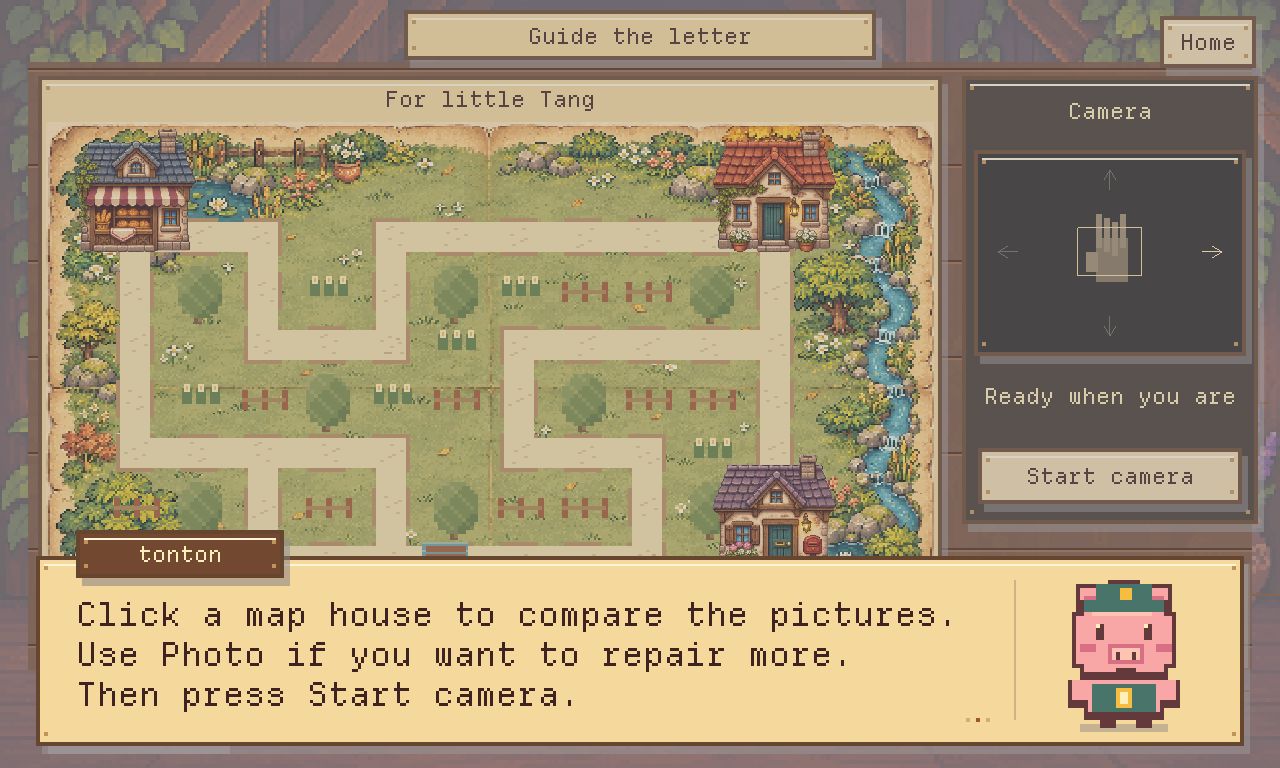
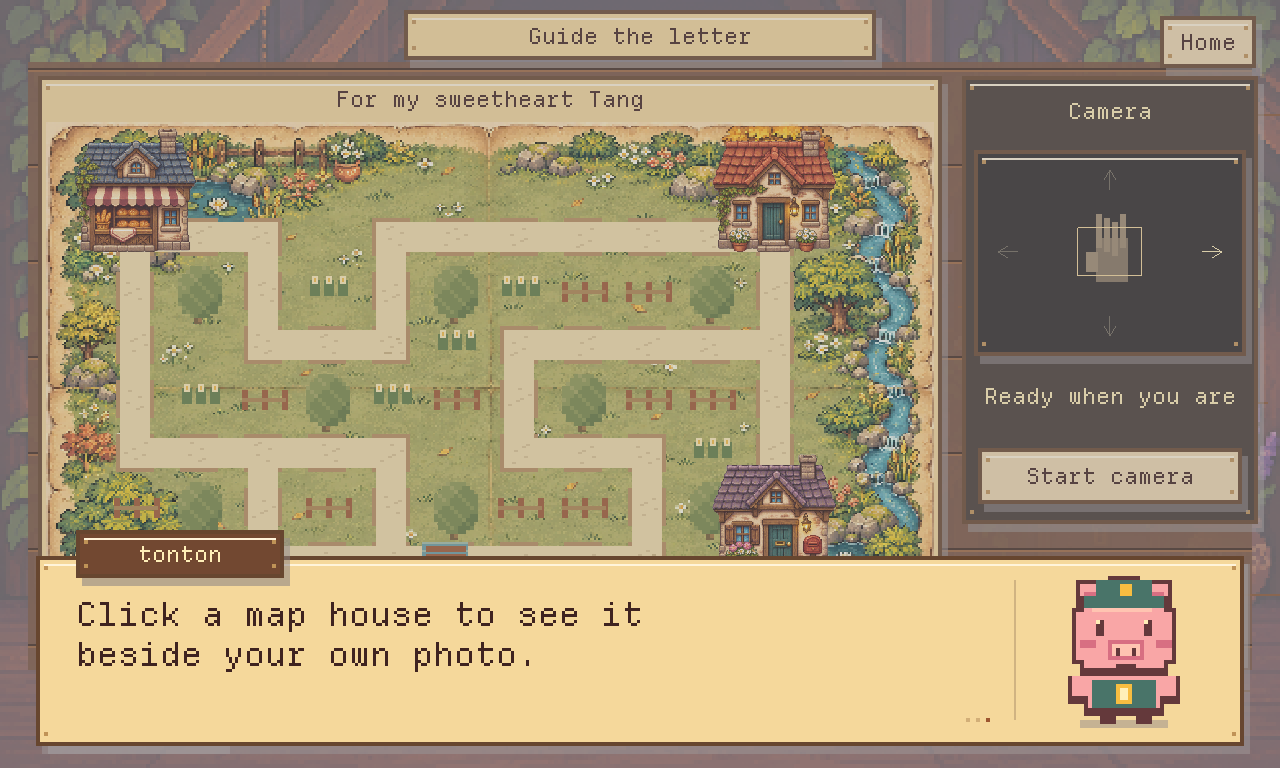
Guide one action at a time with highlighted tools

diff --git a/src/ofApp.cpp b/src/ofApp.cpp
@@ -126,6 +126,7 @@ void ofApp::enterSpeech(){
     }
 }
 void ofApp::nextSpeech(){
+    if(dialogue[speechIndex].focus!=story::Focus::None&&ofGetElapsedTimef()-dialogueAt<.35f)return;
     if(dialogue[speechIndex].cue==story::Cue::Doorbell&&ofGetElapsedTimef()-dialogueAt<.75f)return;
     if(++speechIndex>=dialogue.size()){
         screen=afterDialogue;intro=false;palm.reset();lastPalmStamp=0;
@@ -198,7 +199,7 @@ void ofApp::update(){
     for(int i=0;i<3;++i)if(inkDue[i]>0&&now>=inkDue[i]&&drawingCell!=i){guesses[i]=reader.guess(writing[i]);recognized[i]=guesses[i].digit;inkDue[i]=0;}
     if(screen==Screen::Play&&chapter==2&&moveDuration<=0&&inspectedHouse<0&&cameraTipPending){
         cameraTaught=true;cameraTipPending=false;
-        say({{"tonton","Start in the middle, then hold one side.\nWait for the ring. Come back to middle.\nThe letter stops at forks and corners."}});
+        say(story::cameraGuide());
     }
     if(qaMode)runQA();
 }
@@ -373,7 +374,7 @@ void ofApp::drawMap(bool caption){
     for(int y=1;y<8;++y)for(int x=1;x<12;++x)if(maze.road({x,y})){
         auto p=mapPoint({x,y});for(int i=0;i<5;++i){int dx=(x*7+y*3+i*5)%11-5,dy=(x*3+y*7+i*3)%11-5;rect(p.x+dx,p.y+dy,2,1,ofColor(218,195,145));}
     }
-    if(caption)textInBox("For little Tang",{23,41,444,19},ink);
+    if(caption)textInBox(story::dedication,{23,41,444,19},ink);
     for(size_t i=1;i<trail.size();++i){auto a=mapPoint(trail[i-1]),b=mapPoint(trail[i]);if(cv::norm(trail[i]-trail[i-1])==1)line(a.x,a.y,b.x,b.y,ofColor(170,98,72));}
     // A bridge and a tiny pond are scenery; road topology remains explicit.
     rect(211,271,23,17,ofColor(103,158,163));for(int y=271;y<288;y+=4)rect(211,y,23,1,ofColor(161,190,167));
@@ -429,25 +430,55 @@ void ofApp::drawSealedEnvelope(){
     if(screen==Screen::Envelope)button("Open envelope",openEnvelopeButton,true);
 }
 
+ofRectangle ofApp::dialogueBox()const{
+    auto focus=dialogue[speechIndex].focus;
+    return {18,focus!=story::Focus::None&&focus!=story::Focus::Ready?48.f:278.f,604,95};
+}
+ofRectangle ofApp::focusArea()const{
+    switch(dialogue[speechIndex].focus){
+        case story::Focus::Clean:return filterButton(0);
+        case story::Focus::Contrast:return filterButton(1);
+        case story::Focus::Detail:return filterButton(2);
+        case story::Focus::Size:return {278,311,166,28};
+        case story::Focus::Strength:return {278,343,166,31};
+        case story::Focus::Original:return beforeButton;
+        default:return {};
+    }
+}
 void ofApp::drawDialogue(){
-    if(intro)drawIntro();
+    const auto& speech=dialogue[speechIndex];
+    if(speech.focus!=story::Focus::None)drawPlay();
+    else if(intro)drawIntro();
     else if(outro)drawOutro();
     else if(chapter==2&&!delivered&&!envelopeOpened)drawSealedEnvelope();
     else drawPlay();
-    rect(0,0,W,H,ofColor(28,21,27,50));
-    const auto& speech=dialogue[speechIndex];
-    paperFrame(18,278,604,95,paper);
-    if(!speech.narration){paperFrame(38,265,104,24,ofColor(114,72,49));textInBox(speech.speaker,{38,265,104,24},light);}
-    rasterText(speech.words,38,313,ink,true);
-    if(!speech.narration&&speech.speaker!="You")rect(507,290,1,70,ofColor(208,179,130));
+    auto target=focusArea();auto shade=ofColor(28,21,27,90);
+    if(target.width>0){
+        target.x-=4;target.y-=4;target.width+=8;target.height+=8;
+        rect(0,0,W,target.y,shade);rect(0,target.y,target.x,target.height,shade);
+        rect(target.getRight(),target.y,W-target.getRight(),target.height,shade);
+        rect(0,target.getBottom(),W,H-target.getBottom(),shade);
+        // Crisp pixel brackets leave the highlighted control unobscured.
+        auto glow=ofColor(255,221,137,210+int(35*std::sin(ofGetElapsedTimef()*4)));
+        for(int side:{0,1})for(int edge:{0,1}){
+            int x=side?target.getRight()-7:target.x,y=edge?target.getBottom()-2:target.y;
+            rect(x,y,7,2,glow);rect(side?target.getRight()-2:target.x,edge?target.getBottom()-7:target.y,2,7,glow);
+        }
+    }else rect(0,0,W,H,ofColor(28,21,27,50));
+    auto box=dialogueBox();int y=box.y;
+    paperFrame(box.x,y,box.width,box.height,paper);
+    if(!speech.narration){paperFrame(38,y-13,104,24,ofColor(114,72,49));textInBox(speech.speaker,{38,float(y-13),104,24},light);}
+    float age=ofGetElapsedTimef()-dialogueAt;
+    if(speech.focus==story::Focus::None||age>=.3f)rasterText(speech.words,38,y+35,ink,true);
+    if(!speech.narration&&speech.speaker!="You")rect(507,y+12,1,70,ofColor(208,179,130));
     if(speech.speaker=="tonton"){
-        float age=ofGetElapsedTimef()-dialogueAt;int shake=age<.35&&speech.happy?int(std::sin(age*65)*2):0;
-        pixel::tonton(562+shake,330,2,ofGetElapsedTimef(),speech.happy);
+        int shake=age<.35&&speech.happy?int(std::sin(age*65)*2):0;
+        pixel::tonton(562+shake,y+52,2,ofGetElapsedTimef(),speech.happy);
     }else if(speech.speaker=="Lia"){
         int pose=ofClamp(speech.happy,0,2);float cell=lia.getWidth()/3;
-        ofSetColor(255);lia.getTexture().drawSubsection(520,282,88,88,cell*pose,0,cell,lia.getHeight());
+        ofSetColor(255);lia.getTexture().drawSubsection(520,y+4,88,88,cell*pose,0,cell,lia.getHeight());
     }
-    int dot=int(ofGetElapsedTimef()*2)%3;for(int i=0;i<3;++i)rect(483+i*5,359,2,2,i==dot?wood:ofColor(210,175,120));
+    int dot=int(ofGetElapsedTimef()*2)%3;for(int i=0;i<3;++i)rect(483+i*5,y+81,2,2,i==dot?wood:ofColor(210,175,120));
 }
 
 void ofApp::drawLetter(){
@@ -456,7 +487,7 @@ void ofApp::drawLetter(){
     ofPushMatrix();ofTranslate(320,0);ofScale(flip,1);ofTranslate(-320,0);
     drawProp(paperArt,letterArea);
     if(!letterOpened||age<.3f){
-        textInBox("For little Tang",{176,58,288,25},ink);
+        textInBox(story::dedication,{176,58,288,25},ink);
         ofPushMatrix();ofTranslate(136,56);ofScale(.75f,.75f);drawMap(false);ofPopMatrix();
         int lift=2+int((1+std::sin(ofGetElapsedTimef()*3))*2);
         float fit=std::min(letterArea.width/paperArt.getWidth(),letterArea.height/paperArt.getHeight());
@@ -509,7 +540,7 @@ void ofApp::drawMagnifier(glm::vec2 p){
 void ofApp::draw(){
     auto v=mirror::pixelViewport(ofGetWidth(),ofGetHeight());renderCanvas(v.scale);
     ofBackground(shadow);ofSetColor(255);canvas.draw(v.x,v.y);
-    auto p=logical(ofGetMouseX(),ofGetMouseY());bool magnifier=(screen==Screen::Home&&ofRectangle(0,0,W,H).inside(p))||(screen==Screen::Dialogue&&ofRectangle(18,266,604,107).inside(p));
+    auto p=logical(ofGetMouseX(),ofGetMouseY());bool magnifier=(screen==Screen::Home&&ofRectangle(0,0,W,H).inside(p))||(screen==Screen::Dialogue&&dialogueBox().inside(p));
     if(magnifier){ofHideCursor();ofPushMatrix();ofTranslate(v.x,v.y);ofScale(v.scale,v.scale);drawMagnifier(p);ofPopMatrix();}else ofShowCursor();
 }
 void ofApp::pointerDown(glm::vec2 p){
@@ -521,7 +552,7 @@ void ofApp::pointerDown(glm::vec2 p){
         return;
     }
     if(screen==Screen::Info){if(infoBack.inside(p))screen=Screen::Home;return;}
-    if(screen==Screen::Dialogue){if(ofRectangle(18,266,604,107).inside(p))nextSpeech();return;}
+    if(screen==Screen::Dialogue){if(dialogueBox().inside(p))nextSpeech();return;}
     if(screen==Screen::Envelope){
         if(homeButton.inside(p)){screen=Screen::Home;return;}
         if(envelopeArea.inside(p)||openEnvelopeButton.inside(p))openEnvelope();return;
@@ -617,6 +648,7 @@ void ofApp::runQA(){
     auto capture=[&](const std::string& name,int scale=2){if(hand.running||canvasHasCamera)return;renderCanvas(scale);auto folder=ofFilePath::getCurrentExeDir()+"../../../../qa/";ofDirectory::createDirectory(folder,true,true);ofPixels pixels;canvas.readToPixels(pixels);ofSaveImage(pixels,folder+name);};
     if(screen==Screen::Dialogue){
         auto cue=dialogue[speechIndex].cue;float age=ofGetElapsedTimef()-dialogueAt;
+        if(dialogue[speechIndex].focus!=story::Focus::None&&age<.5f)return;
         if((cue==story::Cue::ShowKeepsakes&&age<.65f)||(cue==story::Cue::Doorbell&&age<1.f)||(cue==story::Cue::ReturnPhoto&&age<1.f))return;
         capture("qa-dialogue-"+std::to_string(chapter)+"-"+std::to_string(speechIndex)+"-"+std::to_string(dialogue[speechIndex].happy)+".png");
         if(intro&&speechIndex==0){capture("qa-narration.png");checkQA(bool(dialogue[speechIndex].narration),__LINE__);}
@@ -627,8 +659,15 @@ void ofApp::runQA(){
         if(!intro&&!outro&&chapter==2&&!delivered&&!envelopeOpened){checkQA(afterDialogue==Screen::Envelope,__LINE__);capture("qa-open-box.png");}
         if(!intro&&!outro&&chapter==2&&dialogue[speechIndex].words.find("Click a map house")!=std::string::npos&&!delivered)capture("qa-photo-guide.png");
         if(!intro&&!outro&&chapter==2&&dialogue[speechIndex].words.find("Hold your hand")!=std::string::npos&&!delivered)capture("qa-camera-guide.png");
-        if(delivered&&!outro&&speechIndex==0)capture("qa-turn-guide.png");
-        click({400,350});return;
+        if(delivered&&!outro&&speechIndex==0)capture("qa-map-success.png");
+        if(delivered&&!outro&&speechIndex==2)capture("qa-turn-guide.png");
+        if(dialogue[speechIndex].focus!=story::Focus::None){
+            auto target=focusArea();auto box=dialogueBox();
+            checkQA(target.width==0||box.getBottom()<target.y,__LINE__);
+            capture("qa-tool-guide-"+std::to_string(int(dialogue[speechIndex].focus))+".png");
+        }
+        if(chapter==1&&speechIndex==0)capture("qa-photo-success.png");
+        click(dialogueBox().getCenter());return;
     }
 
     if(screen==Screen::Envelope){

diff --git a/src/StoryScript.h b/src/StoryScript.h
@@ -4,47 +4,71 @@
 
 namespace story {
 enum class Cue {None,Doorbell,ShowKeepsakes,ReturnPhoto,LiaLeaves};
+enum class Focus {None,Clean,Contrast,Detail,Size,Strength,Original,Ready};
+inline const std::string dedication="For my sweetheart Tang";
+
 struct Speech {
     std::string speaker,words;
     int happy=0;
     Cue cue=Cue::None;
     bool narration=false;
+    Focus focus=Focus::None;
 };
 
 inline std::vector<Speech> opening(){return {
     {"You","I opened Mirror Archive to restore\nold photos, letters, and memories.",0,Cue::None,true},
     {"You","This is my little archive.\ntonton is my helper and my friend.",0,Cue::None,true},
     {"You","Someone is at the door.",0,Cue::Doorbell,true},
-    {"tonton","Hello! Welcome to Mirror Archive.\nCome in. How can we help?",1},
-    {"Lia","I'm Lia. This was my grandma Tang's box.\nShe kept this old photo with it.",0,Cue::ShowKeepsakes},
+    {"tonton","Welcome to Mirror Archive!\nHow can we help?",1},
+    {"Lia","I'm Lia.\nThese belonged to my grandma Tang.",0,Cue::ShowKeepsakes},
     {"You","Please, take your time.\nTell me about her."},
-    {"Lia","She died last month. I miss her.\nI want to know what she kept inside.",1},
-    {"Lia","The password is her first home's address.\nThat is what she told me.\nBut I have never been there."},
+    {"Lia","Grandma died last month.\nI miss her.",1},
+    {"Lia","She said the password was her first\nhome's address, but I've never been there."},
     {"You","I'll take good care of them.\nLet's find that house number."},
-    {"tonton","Clean removes dust. Contrast helps fading.\nDetail makes small edges clearer.\nDrag a brush over the house number.",1},
-    {"tonton","Size changes how wide your brush is.\nStrength changes how much the tool does.\nHold Original to compare. Then try the box."}
+    {"tonton","Let's start with Clean.\nDrag over the photo to remove dust.",1,Cue::None,false,Focus::Clean},
+    {"tonton","Use Contrast to bring back faded ink.",0,Cue::None,false,Focus::Contrast},
+    {"tonton","Use Detail to make small edges clearer.",0,Cue::None,false,Focus::Detail},
+    {"tonton","Use Size to make your brush\nwider or smaller.",0,Cue::None,false,Focus::Size},
+    {"tonton","Use Strength to make the effect\nstronger or softer.",0,Cue::None,false,Focus::Strength},
+    {"tonton","Hold Original to compare your work\nwith the damaged photo.",0,Cue::None,false,Focus::Original},
+    {"tonton","Let's find that house number!",1,Cue::None,false,Focus::Ready}
 };}
 
 inline std::vector<Speech> foundNumber(){return {
-    {"tonton","Nice work! Let's try your number.\nWrite one number in each box.\nCheck the small windows, then press Open.",3}
+    {"tonton","Nice work!",3},
+    {"tonton","Write one number in each box."},
+    {"tonton","Check the small windows before\npressing Open."},
+    {"tonton","Let's try your number!",1}
 };}
 
 inline std::vector<Speech> foundEnvelope(){return {
-    {"tonton","It opened! You did it!\nThere's an envelope inside.\nLet's open it.",3}
+    {"tonton","It opened! You did it!",3},
+    {"tonton","There's an envelope inside.",2},
+    {"tonton","Let's open it!",1}
 };}
 inline std::vector<Speech> foundMap(){return {
-    {"tonton","There's a map inside!\nIt says, 'For little Tang.'\nThat's Lia's grandma!",2},
-    {"tonton","Click a map house to compare the pictures.\nUse Photo if you want to repair more.\nThen press Start camera."}
+    {"tonton","There's a map inside!",2},
+    {"tonton","It says, 'For my sweetheart Tang.'\nThat's Lia's grandma!",1},
+    {"tonton","Click a map house to see it\nbeside your own photo."},
+    {"tonton","Use Photo if you want to keep repairing."},
+    {"tonton","Let's find her home!\nPress Start camera when you're ready.",1}
+};}
+inline std::vector<Speech> cameraGuide(){return {
+    {"tonton","Hold your hand in the middle first."},
+    {"tonton","Move it to one side and wait\nfor the ring to fill."},
+    {"tonton","Bring it back to the middle\nbefore choosing another direction."},
+    {"tonton","Let's give it a try!",1}
 };}
 inline std::vector<Speech> reachedHome(){return {
-    {"tonton","You brought it home! Great work!\nWait... there's writing on the back.",3},
-    {"tonton","Click the folded corner.\nLet's see what it says.",1}
+    {"tonton","You brought it home!\nGreat work!",3},
+    {"tonton","Wait... there's writing on the back."},
+    {"tonton","Let's turn it over.\nClick the folded corner.",1}
 };}
 
 inline std::vector<Speech> ending(bool peopleRestored=false){return {
-    {"Lia","Grandma left a light on for me.\nEven when I came home late.\nNow I know why.",1},
+    {"Lia","Grandma always left a light on for me.\nNow I know why.",1},
     {"You","You do not have to stop missing her.\nYou can keep her love with you."},
-    {"You","Here is the photo I worked on.\nHere. Take it home with the letter.",0,Cue::ReturnPhoto},
+    {"You","Here is the photo I worked on.\nTake it home with the letter.",0,Cue::ReturnPhoto},
     {"Lia",peopleRestored?"I can see them holding hands.\nGrandma held my hand like that, too.":"Thank you for taking care of her photo.\nI will keep it close.",2},
     {"Lia","I'll put them by my bed.\nI'll keep a light on, too.",2},
     {"You","Take care, Lia.\nCome back any time."},
@@ -57,7 +81,7 @@ inline std::vector<Speech> ending(bool peopleRestored=false){return {
 };}
 
 inline const std::string letter=
-    "Dear little Tang,\n\n"
+    "My dear Tang,\n\n"
     "If you get lost, take your time.\n"
     "You will find your way home.\n\n"
     "I will leave the light on for you.\n\n"

diff --git a/tests/HomewardTests.cpp b/tests/HomewardTests.cpp
@@ -81,9 +81,9 @@ int main(int argc,char** argv){try{
     check(readable>50&&readable>faint*4,"Real filters recover readable contrast from the observation");
     check(cv::norm(faded.image()(cv::Rect(350,200,50,50)),faded.damaged(cv::Rect(350,200,50,50)),cv::NORM_INF)==0,"Clue repair stays inside the player's brush");
     auto number=story::foundNumber(),envelope=story::foundEnvelope(),map=story::foundMap(),arrival=story::reachedHome();
-    check(envelope.size()==1&&envelope[0].words.find("map")==std::string::npos,"The box reveals only an envelope");
+    check(envelope.size()==3&&envelope[1].words.find("envelope")!=std::string::npos&&envelope[1].words.find("map")==std::string::npos,"The box reveals only an envelope");
     check(map.front().words.find("map inside")!=std::string::npos,"Opening the envelope reveals its map");
-    check(arrival.size()==2&&arrival[0].words.find("back")!=std::string::npos,"Only arrival reveals the writing on the back");
+    check(arrival.size()==3&&arrival[1].words.find("back")!=std::string::npos,"Only arrival reveals the writing on the back");
     check(number[0].happy==3&&envelope[0].happy==3&&arrival[0].happy==3,"Each chapter ends with a happy encouragement");
     auto personal=story::ending(true),quiet=story::ending(false);
     check(personal[3].words!=quiet[3].words&&personal[3].words.find("held my hand")!=std::string::npos,"Lia responds to the player's actual family repair");
@@ -99,7 +99,20 @@ int main(int argc,char** argv){try{
     bool playerAfter=false,helperAfter=false;
     for(size_t i=leave+1;i<ending.size();++i){playerAfter|=ending[i].speaker=="You";helperAfter|=ending[i].speaker=="tonton";}
     check(playerAfter&&helperAfter,"The player and helper share the final conversation");
-    for(auto script:{opening,ending,personal,number,envelope,map,arrival})for(auto speech:script){std::istringstream lines(speech.words);std::string line;int count=0;while(std::getline(lines,line)){++count;check(line.size()<=44,"NPC line fits the large native pixel font");}check(count<=3,"NPC speech stays short");}
+    auto camera=story::cameraGuide();
+    check(story::dedication=="For my sweetheart Tang"&&story::letter.find("My dear Tang,")==0,"Map and letter use the requested affectionate wording");
+    check(number[0].words.find("Write")==std::string::npos&&arrival[0].words.find("back")==std::string::npos,"Celebrations are separate from instructions and story reveals");
+    std::set<story::Focus> highlights;for(auto speech:opening)if(speech.focus!=story::Focus::None)highlights.insert(speech.focus);
+    check(highlights.size()==7,"Each photo tool or setting has its own spotlight, followed by an invitation");
+    for(auto script:{opening,ending,personal,number,envelope,map,arrival,camera})for(auto speech:script){
+        std::istringstream lines(speech.words);std::string line;int count=0;
+        while(std::getline(lines,line)){++count;check(line.size()<=44,"NPC line fits the native pixel font");}
+        check(count<=2,"Each dialogue box is at most two short lines");
+        int sentences=0;bool punctuation=false;
+        for(char c:speech.words){bool end=c=='.'||c=='!'||c=='?';if(end&&!punctuation)++sentences;punctuation=end;}
+        check(sentences<=2,"Each dialogue box contains at most two sentences");
+    }
+    for(auto script:{number,envelope,map,camera})check(script.back().words.find("Let's")!=std::string::npos,"Each task starts with a friendly invitation");
 
     Maze maze;auto route=maze.solution();
     std::cout<<"Shortest maze route: "<<route.size()<<" gestures\n";

diff --git a/src/ofApp.h b/src/ofApp.h
@@ -118,6 +118,8 @@ private:
     void drawMap(bool caption=true);
     void drawHouse(int x,int y,int kind);
     void drawDialogue();
+    ofRectangle dialogueBox() const;
+    ofRectangle focusArea() const;
     void drawLetter();
     void drawComplete();
     void button(const std::string& text,const ofRectangle& rect,bool active=false,int scale=2);

diff --git a/docs/TECHNICAL.md b/docs/TECHNICAL.md
@@ -6,13 +6,13 @@
 
 此前直接以 13/15px 加载这款 11px 网格字体造成笔画不均，因此已移除非原生字号。封面大标题保留原创位图字。旧位图字体把小写 `v` 特判成向下箭头，导致 Love 出错；该替换也已移除，方向箭头单独绘制。
 
-Lia 有平静、难过、释然三个表情。序章先展示工作室；Lia 开始介绍时用 0.55 秒缓动推近，左侧大箱子、右侧大照片分开展示，随后每关前后进入短对话。Lia 仅在对话框出现；88×88 等比例采样方形肖像，避免重复和拉伸。tonton 在底部的小肖像区出现，成功时使用开心动画。第一关开始前分两段解释滤镜、笔刷参数和 Original；三关结束时分别以开心跳跃和一句简短鼓励承接下一任务，刷图、换工具和写完数字不再触发对话。第三关首次相机预览就绪后只解释一次手势；回照片再开启相机不重复，路口也不再弹窗。正常操作界面没有常驻长说明或「?」提示；第二次密码失败、首次到错误房屋时才自然补充一句建议。
+Lia 有平静、难过、释然三个表情。序章先展示工作室；Lia 开始介绍时用 0.55 秒缓动推近，左侧大箱子、右侧大照片分开展示，随后每关前后进入短对话。Lia 仅在对话框出现；88×88 等比例采样方形肖像，避免重复和拉伸。tonton 在底部的小肖像区出现，成功时使用开心动画。对白每框最多两句、两行，只承担一个用途。第一关以 Speech::focus 标记 Clean、Contrast、Detail、Size、Strength、Original 与开始邀请；对应控件先高亮，0.3 秒后显示说明，对话框上移以避开工具栏。点击区域与放大镜光标同步使用 dialogueBox()；相应 QA 检查高亮区域不被对话框遮挡。三关的庆祝独立成框，然后再解释下一任务并邀请开始，刷图、换工具和写完数字不再触发对话。第三关首次相机预览就绪后只解释一次手势；回照片再开启相机不重复，路口也不再弹窗。正常操作界面没有常驻长说明或「?」提示；第二次密码失败、首次到错误房屋时才自然补充一句建议。
 
 ### 剧情事件与道具
 
 `StoryScript.h` 集中保存简单英文台词及明确的剧情事件。开场先由玩家介绍档案馆和助手，再触发一次本地合成门铃，之后 tonton 欢迎 Lia。开箱只呈现信封；独立 Envelope 状态等待玩家点击信封或 Open envelope，才设置 envelopeOpened 并展示地图。打开前无法移动地图角色，重玩会重置封口状态。完成迷宫后才提示地图背面的文字；不提前揭露作者。结尾按“安慰 → 归还照片 → Lia 离开 → 玩家与助手收尾”推进；事件仅在进入对应台词时执行，不随绘制帧重复触发。
 
-封面提供人物、说明与声音开关；镜面微光、浮尘和 START 上下轻浮动由时间驱动；移除了飞蛾。START 的点击区域覆盖整个浮动范围，封面与对话框区域使用像素放大镜光标。imagegen 生成的箱子开／关、信封、信纸和标题牌在运行时裁去透明留白、保持宽高比并采用最近邻采样。姓名与按钮文字按实际字形包围盒居中，坐标取整；“You”台词不显示 NPC 肖像；`Speech::narration` 明确区分旁白与说话，旁白隐藏姓名牌。翻信前 tonton 提示折角，点击纸面后播放短翻转；信件正文、称呼和署名共享同一个文字样式，结束操作为 Bring it to Lia。
+封面提供人物、说明与声音开关；镜面微光、浮尘和 START 上下轻浮动由时间驱动；移除了飞蛾。START 的点击区域覆盖整个浮动范围，封面与对话框区域使用像素放大镜光标。imagegen 生成的箱子开／关、信封、信纸和标题牌在运行时裁去透明留白、保持宽高比并采用最近邻采样。姓名与按钮文字按实际字形包围盒居中，坐标取整；“You”台词不显示 NPC 肖像；`Speech::narration` 明确区分旁白与说话，旁白隐藏姓名牌。地图题签统一为 For my sweetheart Tang，信件称呼为 My dear Tang,。翻信前 tonton 提示折角，点击纸面后播放短翻转；信件正文、称呼和署名共享同一个文字样式，结束操作为 Bring it to Lia。
 
 归还时调用 `repair.image()`，保存玩家当前的局部修复图像快照并显示；不会自动补修任何区域，不换成原图，也不增加确认步骤。人物区域的可见改变量决定 Lia 的一句特殊回应：指定人物矩形内超过 45% 的像素灰度差大于 6 时触发“奶奶也这样牵我的手”；这只是故事反馈，不是人脸检测或通关要求。零强度或未修复不会触发。Keep a copy 调用系统保存窗口，使用 OpenCV PNG 编码导出归还快照，不含 UI；取消不写盘，失败允许重试。原生 QA 将导出 PNG、归还快照与当前修复结果逐像素比较，并特意留下未修复区域，验证结尾没有补修。
 
@@ -64,4 +64,4 @@ Python 工作进程独占 OpenCV `VideoCapture`。镜像、缩放至 320×240、
 
 `--qa` 使用真实鼠标事件画画和手写数字，方向键走迷宫，验证完整故事、强度撤销、只读对比、房屋近景、照片返回与迷宫位置保持，以及归还照片的像素一致性；`--qa-camera` 检查实际工作进程收帧、预览解码及关闭。摄像头画面不写入 QA 截图。自动测试不能代替不同用户、光照和设备下的真人手掌试玩。
 
-最近一次原生摄像头验证：首次启动收到 44 帧，返回照片编辑并回到地图后收到 30 帧，两次均正常关闭；完整 QA 通过。相机画面没有保存。
+最近一次原生摄像头验证：首次启动收到 41 帧，返回照片编辑并回到地图后收到 16 帧，两次均正常关闭；完整 QA 通过。相机画面没有保存。

diff --git a/README.md b/README.md
@@ -24,15 +24,17 @@ Click **Photo** in the second or third chapter to keep working on it. Your writi
 
 For the camera, hold your hand in the middle first. Move it to one side and wait for the ring to fill. The letter follows a straight path and stops at a fork, corner, house, or dead end. It never turns by itself. Bring your hand back to the middle before choosing another direction. Arrow keys and the arrows in the preview also work.
 
-The box holds a sealed envelope. Click **Open envelope** to find the map inside. Finish the map before turning it over to read the message.
+The box holds a sealed envelope. Click **Open envelope** to find the map inside. The map says **For my sweetheart Tang**. Finish it before turning it over to read **My dear Tang,** and the message on the back.
 
-tonton explains the tools before you use them and cheers when you finish each task. Painting, changing tools, writing, and reaching a corner do not open extra dialogue. Camera instructions appear only on the first start. A wrong password or house can bring a short reminder.
+tonton explains one thing at a time, in one or two short sentences. The photo guide highlights each tool before explaining it. Celebrations have their own dialogue box, followed by the next task and a friendly invitation to start. Painting, changing tools, writing, and reaching a corner do not open extra dialogue. Camera instructions appear only on the first start. A wrong password or house can bring a short reminder.
 
 At the end, Lia receives **the photo you actually repaired**. If you bring the people in the photo back into view, she shares a memory of holding her grandma's hand. The game does not finish the photo for you.
 
 Choose **Keep a copy** on the last screen to save your own photo as a PNG. Pick a folder in the save window. This saves the repaired image, without the game interface.
 
 ![Lia's visit](docs/intro.png)
+
+![One tool at a time](docs/tool-guide.png)
 
 | Repair the photo | Write the password |
 | --- | --- |
@@ -86,9 +88,9 @@ build/Build/Products/Release/MirrorArchive.app/Contents/MacOS/MirrorArchive --qa
 build/Build/Products/Release/MirrorArchive.app/Contents/MacOS/MirrorArchive --qa-camera
 ```
 
-Current algorithm checks: **85 legacy checks, 903 story checks, and 6 Python tests passed**. The digit reader scored **2369 / 2500 (94.76%)** on held-out samples. It also passed the mouse-written password and nine two-loop versions of 8. These results do not guarantee every person's handwriting will be read correctly.
+Current algorithm checks: **85 legacy checks, 1000 story checks, and 6 Python tests passed**. The digit reader scored **2369 / 2500 (94.76%)** on held-out samples. It also passed the mouse-written password and nine two-loop versions of 8. These results do not guarantee every person's handwriting will be read correctly.
 
-The latest real-camera check received 44 frames on first start and 30 after returning from photo editing. Both sessions closed successfully; no camera images were saved.
+The latest real-camera check received 41 frames on first start and 16 after returning from photo editing. Both sessions closed successfully; no camera images were saved.
 
 Full-story QA covers painting, strength changes, Original, the sealed envelope and map reveal, handwriting, house views, returning to the photo, maze movement, returning the player's own photo, and saving an identical PNG. Automated maze play uses arrow keys. Real hand play under different lighting still needs user testing.
 

diff --git a/docs/DEMO.md b/docs/DEMO.md
@@ -1,9 +1,9 @@
 # 留灯演示路线（剧透）
 
-1. Start。以“我”的视角介绍自己创办的 Mirror Archive 和助手 tonton。门铃响起后欢迎 Lia；她带来奶奶留下的照片和箱子。点击对话框／空格继续；介绍遗物时镜头推近，tonton 随后说明画笔。
+1. Start。以“我”的视角介绍自己创办的 Mirror Archive 和助手 tonton。门铃响起后欢迎 Lia；她带来奶奶留下的照片和箱子。点击对话框／空格继续；介绍遗物时镜头推近，tonton 随后依次高亮工具并用短句说明；工具教学时对话框移到上方，可点击对话框或按空格继续。
 2. Clean 刷掉门牌附近噪点，Contrast 加强褪色文字，再试 Detail。用 + / - 改大小，Strength 调整当前工具强度，Undo 撤销。按住 Original 或空格 看受损原貌，松开恢复自己的修复。门牌是 **208**。无需涂满，点 **I found the password!**。
-3. 按引导在三格手写 **2 / 0 / 8**。8 可以画连续交叉圈，也可以画上下两圈。停笔后看小窗口；必要时选候选或 Clear 重写。Photo 返回第一关继续修复，Back to the box 返回箱子。Open，tonton 会为开锁成功欢呼。
-4. 开箱时只看到信封。点击 **Open envelope** 或信封本身，再发现里面的地图和「For little Tang」。此时不透露地图作者或背面的留言。
+3. 按引导在三格手写 **2 / 0 / 8**。8 可以画连续交叉圈，也可以画上下两圈。停笔后看小窗口；必要时选候选或 Clear 重写。Photo 返回第一关继续修复，Back to the box 返回箱子。Open，tonton 先用独立对话框为开锁成功欢呼，再发现信封。
+4. 开箱时只看到信封。点击 **Open envelope** 或信封本身，再发现里面的地图和「For my sweetheart Tang」。此时不透露地图作者或背面的留言。
 5. **Start camera**。手掌放预览中间，移向方向区域并停到环满；回中间后再选下一方向。无需快速挥手或捏合。信封沿选定方向通过直路，到岔口、弯角、房屋或尽头就停。转弯需要新的方向输入。
 6. 一条短路线：**右、右、右、上、左、上、右、上**。依次到 (3,7)、(5,7)、(9,7)、(9,5)、(7,5)、(7,3)、(11,3)、(11,1)。先观察岔路和房子；蓝顶面包店、紫顶邮局不是老家。点击房屋看近景，与玩家修复后的照片并排比较。Photo 可返回继续修复，Back to the map 回到原来的位置；tonton 不直接透露目标特征。走错可原路返回。
 7. 到家，tonton 先开心庆祝、发现地图背面的字，再提示点击折角。点击右下折角翻纸，读「I will leave the light on for you. Love, Mom」。
